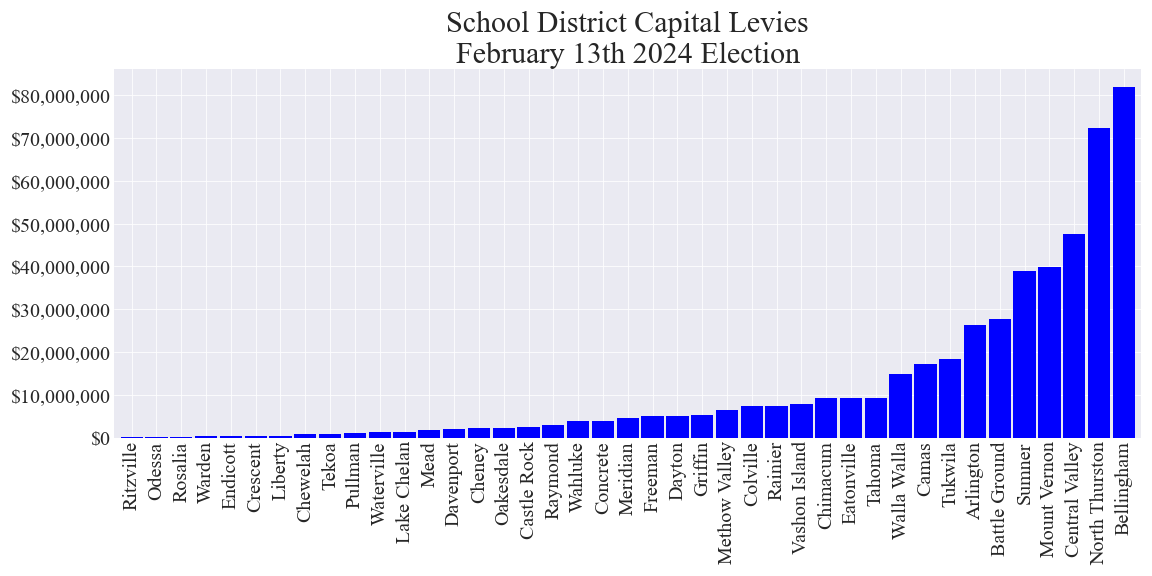
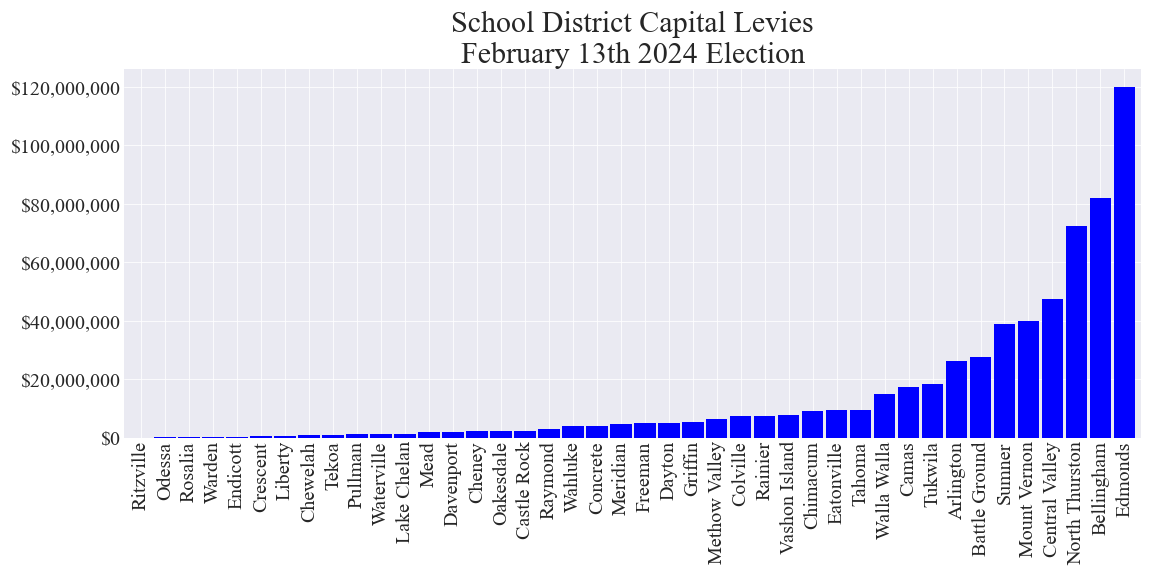
Updated Edmonds SD's measures

diff --git a/_includes/cost_estimates/20240213/Edmonds_Tech_20240213_Enhanced.html b/_includes/cost_estimates/20240213/Edmonds_Tech_20240213_Enhanced.html
@@ -1,0 +1,204 @@
+<html>
+ <head>
+  <script type="text/javascript" src="https://www.gstatic.com/charts/loader.js"></script>
+  <script type="text/javascript">
+    google.charts.load('current', {'packages':['corechart','bar','table']});
+    google.charts.setOnLoadCallback(drawStuff);
+
+	var table_input;
+	var table;
+	var chart;
+	var dataParcel;
+	
+	totalLevyAV = 50901713000;
+	sampleParcelAV = 500000;
+	sampleParcelAVMin = 100000;
+	sampleParcelAVMax = 2000000;
+	totalLevyCost = 120000000;
+	sampleParcelPOF = sampleParcelAV / totalLevyAV;
+	totalLevyCostParcel = sampleParcelPOF * totalLevyCost;
+	levyYears = 4;
+	averageTotalLevyCostParcel = totalLevyCostParcel / levyYears;
+	// POF Annual Change Percent
+	pofAdjust = 0;
+	pofAdjustMin = -2.0;
+	pofAdjustMax = 2.0;
+
+
+
+    function drawStuff() {
+		// Levy 1 schedule
+		data = new google.visualization.DataTable();
+		data.addColumn('string', 'Year');
+		data.addColumn('number', 'New Levy Amount');
+
+		data.addRows([
+			['2025', 30000000],
+			['2026', 30000000],
+			['2027', 30000000],
+			['2028', 30000000],
+
+		]);
+
+		// Levy 1 parcel data
+		dataParcel = new google.visualization.DataTable();
+		dataParcel.addColumn('string', 'Year');
+		dataParcel.addColumn('number', 'New Levy Amount');
+
+		dataParcel.addRows(levyYears);
+		sampleParcelPOFEffective = sampleParcelPOF;
+		totalLevyCostParcel = 0;
+		for (let i = 0; i < levyYears; i++) {
+			sampleParcelPOFEffective = sampleParcelPOF * (1 + pofAdjust/100) ** (1 + i);
+			dataParcel.setCell(i, 0, data.getValue(i, 0));
+			dataParcel.setCell(i, 1, data.getValue(i, 1) * sampleParcelPOFEffective);
+			totalLevyCostParcel = totalLevyCostParcel + data.getValue(i, 1) * sampleParcelPOFEffective;
+		}		
+		averageTotalLevyCostParcel = totalLevyCostParcel / levyYears;
+
+		options = {
+			title: 'Estimated Levy Cost Schedule For The Sample Parcel',
+			isStacked: true,
+			hAxis: {
+			title: '',
+			//format: 'h:mm a',
+			viewWindow: {
+				min: [7, 30, 0],
+				max: [17, 30, 0]
+			}
+        },
+        vAxis: {
+			title: '$'
+        }
+		};
+	  
+		
+
+		
+		// Levy 1 input data
+		// Sampler parcel AV table
+		table_input_data = new google.visualization.DataTable();
+		table_input_data.addColumn('string', 'Description');
+		table_input_data.addColumn('number', 'Value');
+		table_input_data.addRows([
+			['Sample Parcel 2023 Tax Year Assessed Value (AV)', sampleParcelAV],
+		]);
+
+		// POF Adjust table
+		// POF Adjust
+		table_pof_adjust_input_data = new google.visualization.DataTable();
+		table_pof_adjust_input_data.addColumn('string', 'Description');
+		table_pof_adjust_input_data.addColumn('number', 'Value');
+		table_pof_adjust_input_data.addRows([
+			['POF annual change', pofAdjust ],
+		]);
+
+		// Levy 1 output table
+		table_data = new google.visualization.DataTable();
+		table_data.addColumn('string', 'Description');
+		table_data.addColumn('number', 'New');
+		table_data.addRows([
+			['Total cost', totalLevyCostParcel],
+			['Average cost per year for 4 years', averageTotalLevyCostParcel],
+		
+		]);
+
+		// Levy 1 chart
+		chart = new google.visualization.ColumnChart(document.getElementById('chart_div'));
+		formatter = new google.visualization.NumberFormat(
+			{prefix: '$', fractionDigits:0, negativeColor: 'red', negativeParens: false});
+		formatterPercent = new google.visualization.NumberFormat(
+			{suffix: '%', fractionDigits:0, negativeColor: 'red', negativeParens: false});
+		formatterPercent1 = new google.visualization.NumberFormat(
+			{suffix: '%', fractionDigits:1, negativeColor: 'red', negativeParens: false});
+		formatter.format(dataParcel, 1); // Apply formatter to second column
+		//formatter.format(dataParcel, 2); // Apply formatter to third column
+		chart.draw(dataParcel, options);
+		
+		table = new google.visualization.Table(document.getElementById('table_output_div'));
+		formatter.format(table_data, 1); // Apply formatter to second column
+		table.draw(table_data, {sort:'disable'});
+		
+		// Input table for sample parcel AV
+		table_input = new google.visualization.Table(document.getElementById('table_input_div'));
+		formatter.format(table_input_data, 1); // Apply formatter to second column
+		table_input.draw(table_input_data, {sort:'disable'});
+
+		// Input table for POF change
+		table_pof_adjust_input = new google.visualization.Table(document.getElementById('table_pof_adjust_input_div'));
+		formatterPercent1.format(table_pof_adjust_input_data, 1); // Apply formatter to second column
+		table_pof_adjust_input.draw(table_pof_adjust_input_data, {sort:'disable'});
+    }
+
+    function changeParcelAV(dir) {
+		//Update table input
+		sampleParcelAV = sampleParcelAV + dir
+		if (sampleParcelAV < sampleParcelAVMin)
+			sampleParcelAV = sampleParcelAVMin
+		if (sampleParcelAV > sampleParcelAVMax)
+			sampleParcelAV = sampleParcelAVMax
+		sampleParcelPOF = sampleParcelAV / totalLevyAV;
+		table_input_data.setValue(0, 1, sampleParcelAV);
+		formatter.format(table_input_data, 1); // Apply formatter to second column
+		table_input.draw(table_input_data);
+		//Update chart 1
+		sampleParcelPOFEffective = sampleParcelPOF;
+		totalLevyCostParcel = 0;
+		//totalLevyPriorCostParcel = 0;
+		for (let i = 0; i < levyYears; i++) {
+			sampleParcelPOFEffective = sampleParcelPOF * (1 + pofAdjust/100) ** (1 + i);
+			dataParcel.setValue(i, 0, data.getValue(i, 0));
+			dataParcel.setValue(i, 1, data.getValue(i, 1) * sampleParcelPOFEffective);
+			totalLevyCostParcel = totalLevyCostParcel + data.getValue(i, 1) * sampleParcelPOFEffective;
+		}		
+		averageTotalLevyCostParcel = totalLevyCostParcel / levyYears;
+		formatter.format(dataParcel, 1); // Apply formatter to second column
+		chart.draw(dataParcel, options);
+		
+		//Update table output
+		table_data.setValue(0, 1, totalLevyCostParcel); // Total levy cost parcel
+		table_data.setValue(1, 1, averageTotalLevyCostParcel); // Average levy cost parcel
+		formatter.format(table_data, 1); // Apply formatter to second column
+		table.draw(table_data);
+    }
+	
+	function changePOFChange(dir) {
+		pofAdjust = pofAdjust + dir;
+		if (pofAdjust < pofAdjustMin)
+			pofAdjust = pofAdjustMin;
+		if (pofAdjust > pofAdjustMax)
+			pofAdjust = pofAdjustMax;
+		table_pof_adjust_input_data.setValue(0, 1, pofAdjust);
+		formatterPercent1.format(table_pof_adjust_input_data, 1); // Apply formatter to second column
+		table_pof_adjust_input.draw(table_pof_adjust_input_data);
+		changeParcelAV(0);
+	}
+
+  </script>
+ </head>
+ <body>
+  <H2>Property tax impact estimate calculator for the February 13th 2024 levy measure proposed by the Edmonds SD</H2>
+  <p>Created by the author independently from and not associated with the school district</p>
+  <H3>Input</H3>
+  <div id="table_input_div" style="width:1200px; height: 60px;"></div>
+  <p></p>
+  <input type="button" value="Increase Sample Parcel 2023 Tax Year AV" onclick="changeParcelAV(25000)" />
+  <input type="button" value="Decrease Sample Parcel 2023 Tax Year AV" onclick="changeParcelAV(-25000)" />
+  <p></p>
+  <div id="table_pof_adjust_input_div" style="width:1200px; height: 60px;"></div>
+  <input type="button" value="Increase POF Annual Change" onclick="changePOFChange(0.1)" />
+  <input type="button" value="Decrease POF Annual Change" onclick="changePOFChange(-0.1)" />
+  <p></p>
+  <H3>Output</H3>
+  <H3>Tech Levy</H3>
+  <p>Estimated obligations for the sample parcel</P>
+  <div id="table_output_div" style="width:1200px; height: 130px;"></div>
+  <div id="chart_div" style="width:800px; height: 640px;"></div>
+  <p>POF: Proportional Obligation Factor equals the assessed value (AV) of the sample parcel divided by the Total AV of the properties within the district's tax area.</p>
+  <H3>Data Sources</H3>
+  <p>The district's levy resolution</p>
+  <p>The county assessor's website for historical property taxes</p>
+
+ </body>
+</html>
+

diff --git a/pagesManual/LeviesReport/20240213/report_capital_levy_details_20240213.md b/pagesManual/LeviesReport/20240213/report_capital_levy_details_20240213.md
@@ -212,6 +212,15 @@ ___
 
 ___
 
+### Snohomish County Edmonds SD
+
+![Edmonds SD tech levy totals chart](pagesManual/LeviesReport/20240213/EdmondsTech.png "Edmonds SD tech levy totals chart")
+![Edmonds SD tech levy example parcel chart](pagesManual/LeviesReport/20240213/EdmondsTechParcel.png "Edmonds SD tech levy example parcel chart")
+
+[Link to the interactive calculator](calculator_edmonds_tech_20240213_enhanced){:target="_blank" rel="noopener"}
+
+___
+
 ### Spokane County Central Valley SD
 
 ![Central Valley SD capital levy totals chart](pagesManual/LeviesReport/20240213/CentralValleyCapital.png "Central Valley SD capital levy totals chart")
@@ -373,6 +382,4 @@ ___
 [Link to the interactive calculator](calculator_tekoa_capital_20240213_enhanced){:target="_blank" rel="noopener"}
 
 ___
-
-
 

diff --git a/pagesManual/LeviesReport/20240213/SnohomishCountyMeasures20240213.md b/pagesManual/LeviesReport/20240213/SnohomishCountyMeasures20240213.md
@@ -40,6 +40,14 @@ ___
 
 ___
 
+
+![Edmonds SD tech levy totals chart](pagesManual/LeviesReport/20240213/EdmondsTech.png "Edmonds SD tech levy totals chart")
+![Edmonds SD tech levy example parcel chart](pagesManual/LeviesReport/20240213/EdmondsTechParcel.png "Edmonds SD tech  example parcel chart")
+
+[Link to the interactive calculator](calculator_edmonds_tech_20240213_enhanced){:target="_blank" rel="noopener"}
+
+___
+
 ### Lakewood SD
 
 ![Lakewood SD enrichment levy totals chart](pagesManual/LeviesReport/20240213/LakewoodEnrichment.png "Lakewood SD enrichment levy totals chart")

diff --git a/pagesManual/LeviesReport/report_levies_20240213.md b/pagesManual/LeviesReport/report_levies_20240213.md
@@ -34,7 +34,7 @@ ___
 Listed below are the the types and counts for the tax measures for the February 13th 2024 election that have been analyzed to date:
 - Bonds: 19
 - Enrichment Levies: 120
-- Capital / Tech Levies: 41
+- Capital / Tech Levies: 42
 
 As of 1/16/24, there are at least 2 more bonds to analyze for the following school districts once these districts supply requested copies of their bond/levy projection datasheets:
 - Lewis County, Pe Ell SD

diff --git a/pagesManual/LeviesReport/20240213/calculator_edmonds_tech_20240213_enhanced.md b/pagesManual/LeviesReport/20240213/calculator_edmonds_tech_20240213_enhanced.md
@@ -1,0 +1,12 @@
+---
+layout: page
+title: Calculator
+permalink: calculator_edmonds_tech_20240213_enhanced
+---
+
+___
+
+{% include cost_estimates/20240213/Edmonds_Tech_20240213_Enhanced.html %}
+
+___
+
